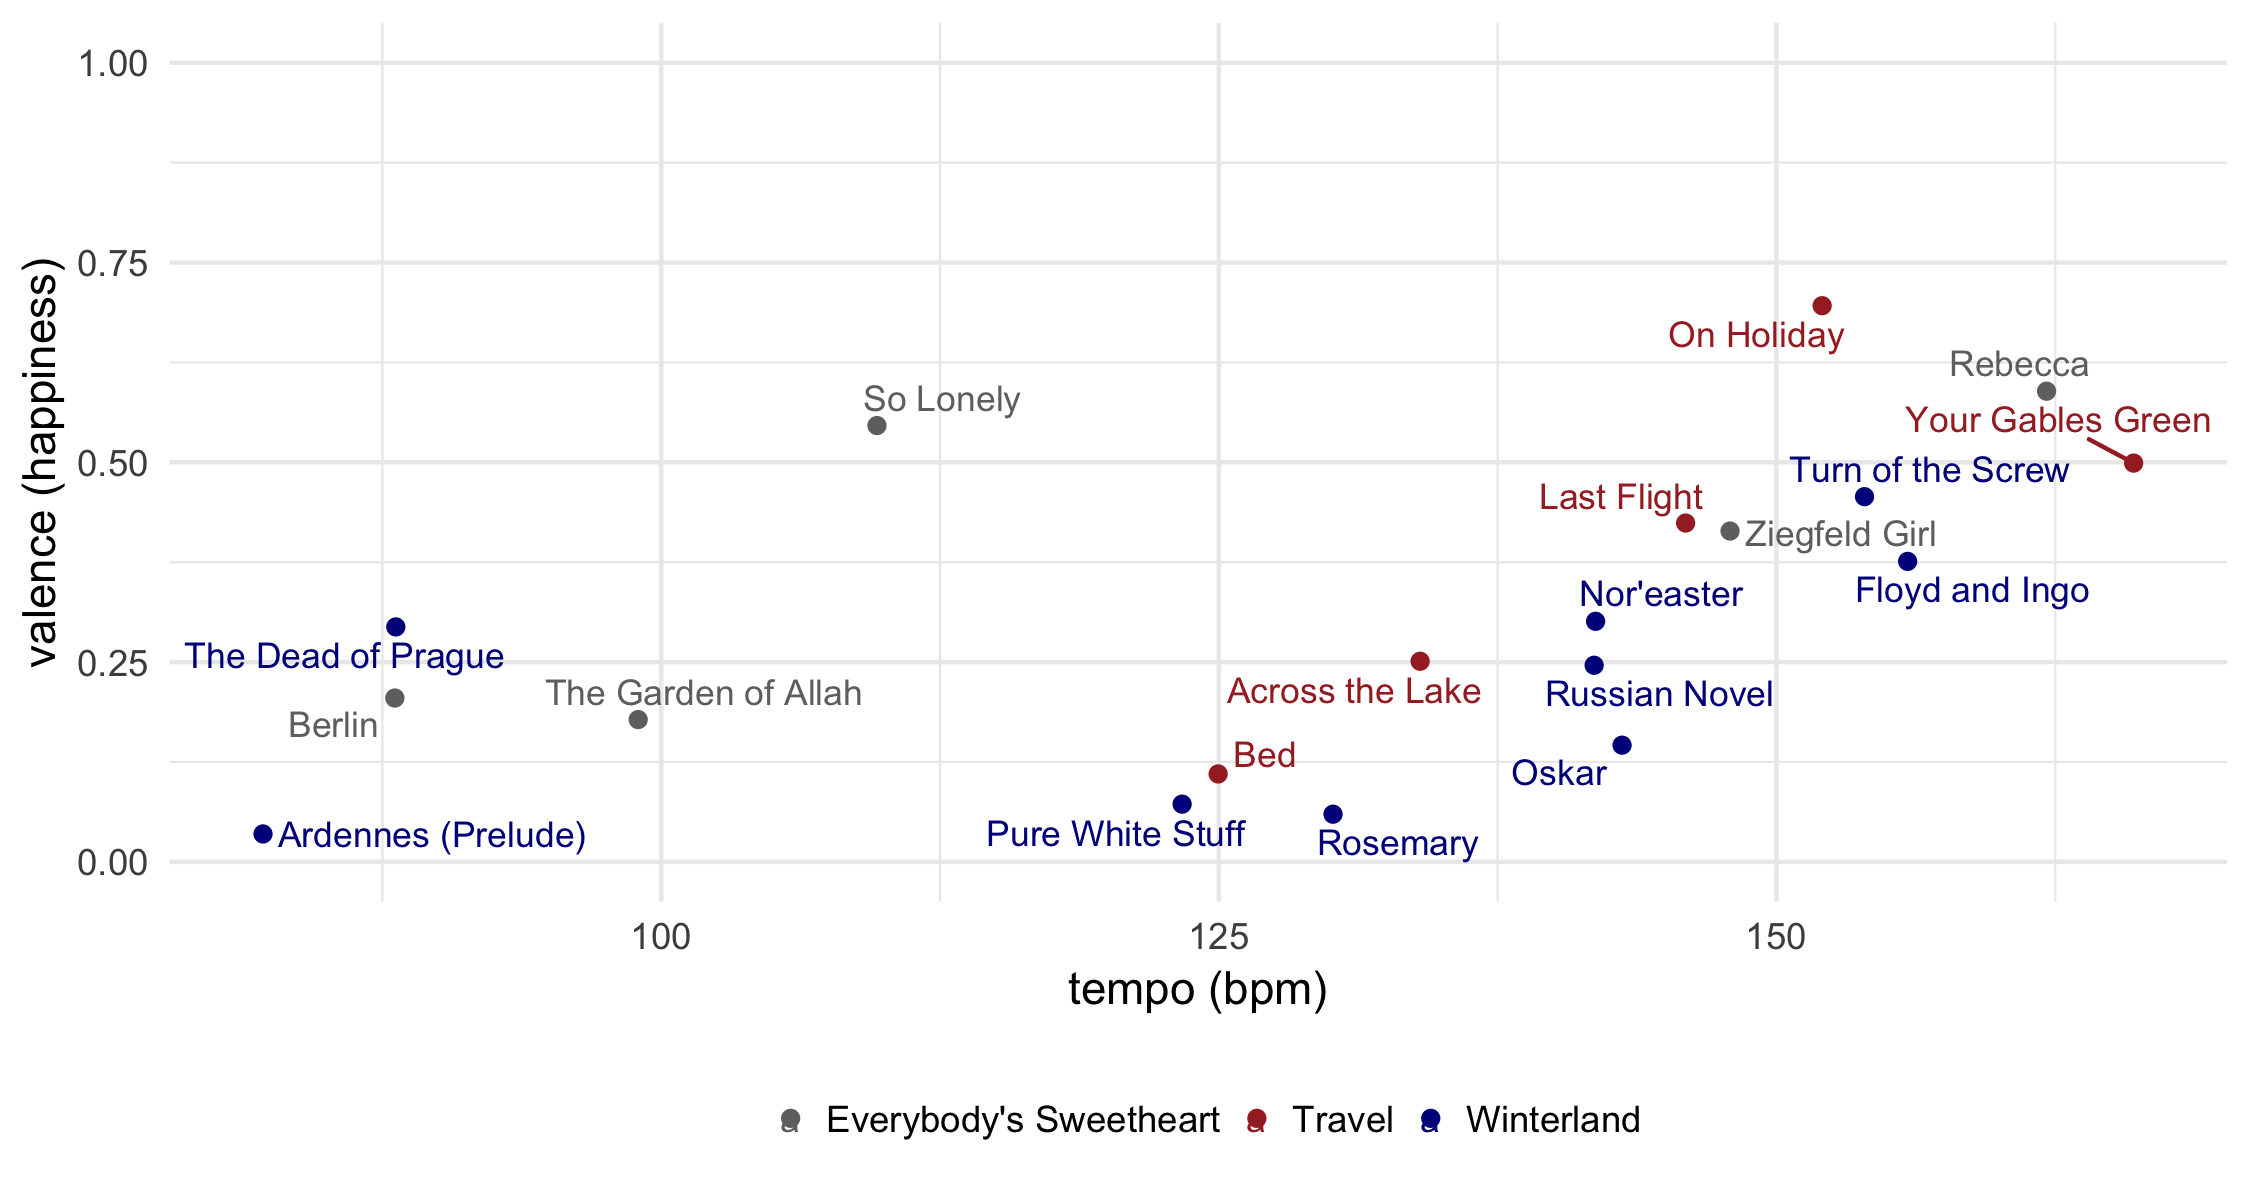
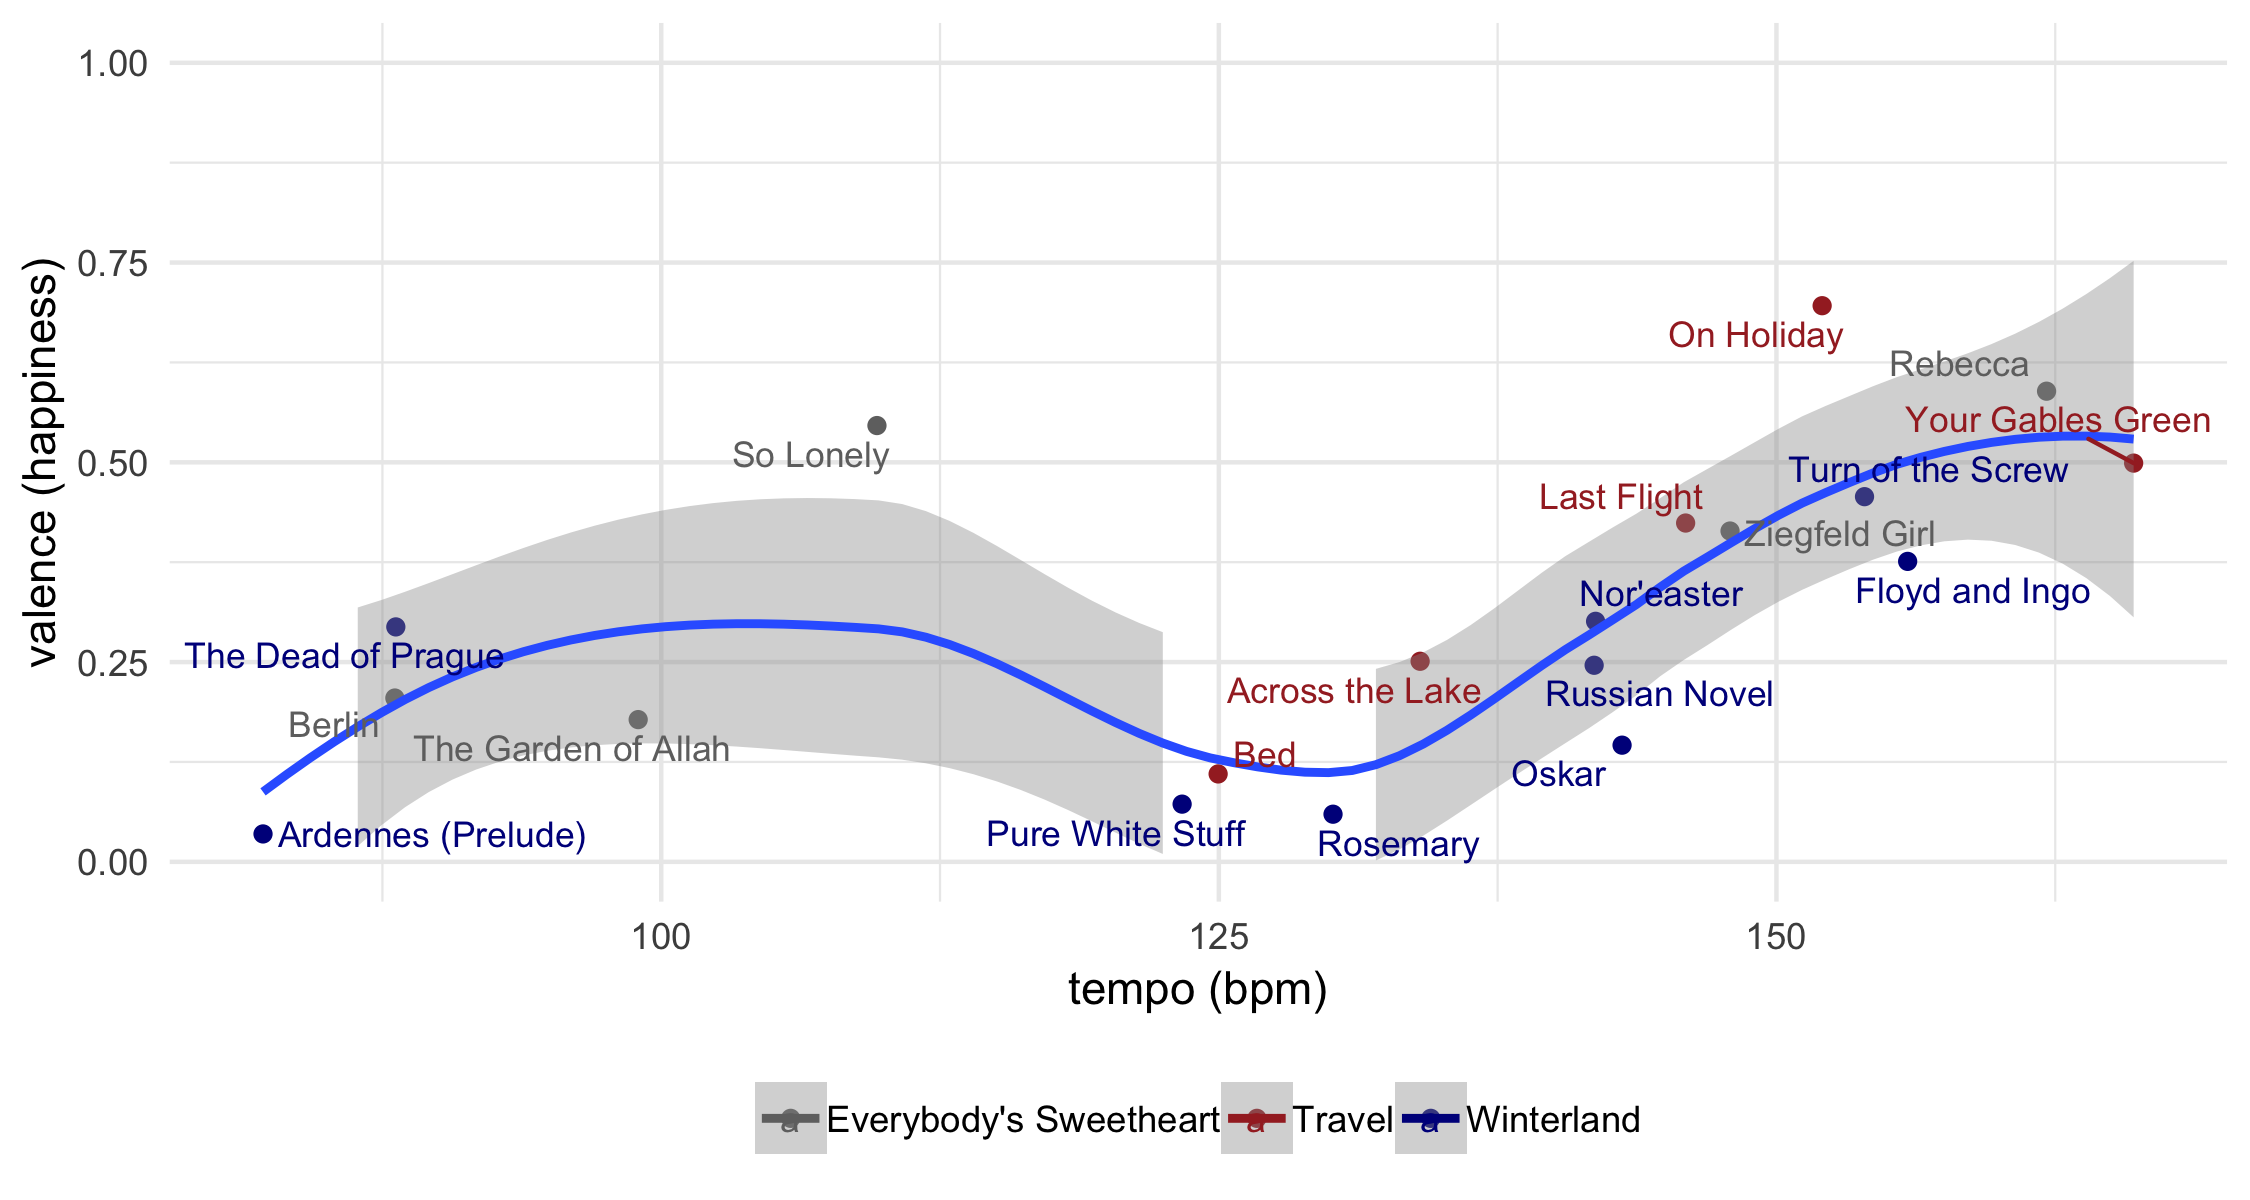
rmd tweaks

diff --git a/Gosta_Berling_analysis.md b/Gosta_Berling_analysis.md
@@ -418,12 +418,14 @@ the BPM distribution
 gosta_audio %>%
   ggplot(aes(tempo, valence, color = album)) +
   geom_point() +
+  geom_smooth(aes(color = NULL)) +
   geom_text_repel(aes(label = track_name), size = 3) +
   scale_color_manual(values = c("#707070", "brown", "dark blue")) + 
   ylim(0, 1) +
   theme_minimal() +
   labs(x = "tempo (bpm)", y = "valence (happiness)") +
   theme(legend.position = "bottom", legend.title = element_blank())
+#> `geom_smooth()` using method = 'loess' and formula 'y ~ x'
 ```
 
 <img src="images/unnamed-chunk-14-1.png" width="100%" />
